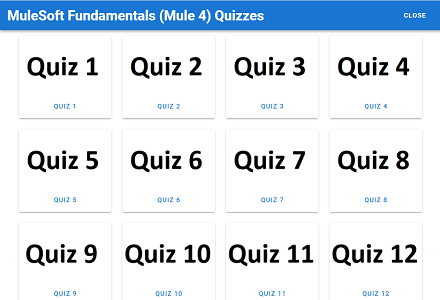
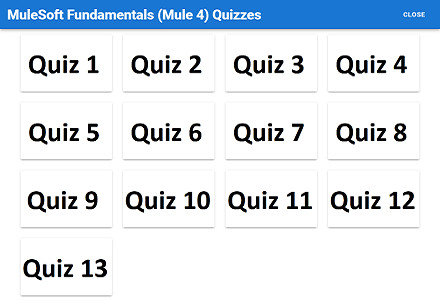
Function Transfer
Transfer the function of the button to Parent card

diff --git a/pages/mulesoftfundamentalsquizzes/index.html b/pages/mulesoftfundamentalsquizzes/index.html
@@ -32,9 +32,10 @@
                 :key="cards.cardTitle"
                 md="3" 
               >
-               <v-card
+                <v-card
                     class="mx-auto"
                     max-width="344"
+                    @click="open(cards.cardLink)"
                   >
                     <v-img
                     :src=cards.cardImage
@@ -42,17 +43,7 @@
                 
                     ></v-img>
 
-                    <v-card-actions>
-                      <v-btn
-                        color="primary"
-                        text
-                        block
-                        @click="open(cards.cardLink)"
-                      >
-                      {{cards.cardTitle}}
-                      </v-btn>
-                    </v-card-actions>
-                  </v-card>
+                </v-card>
               </v-col>
             </v-row>
           </template>
